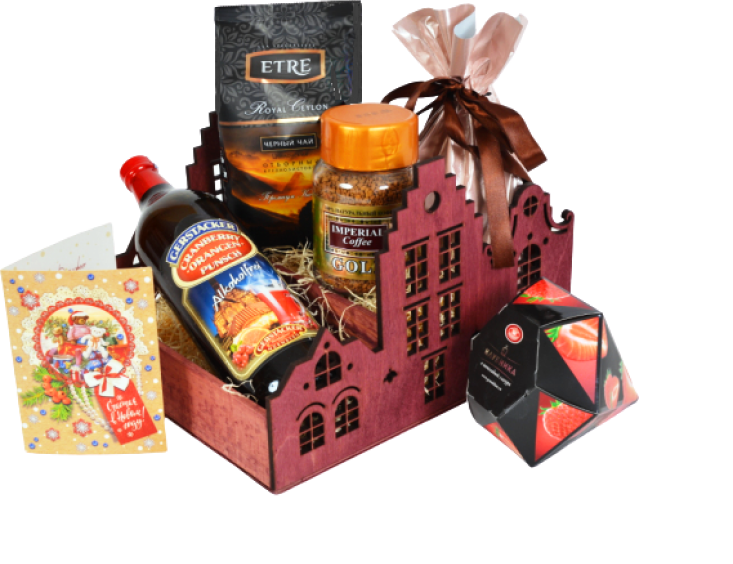
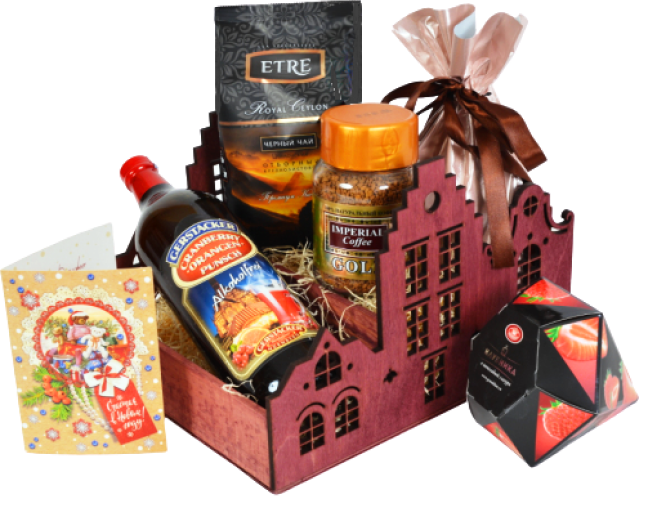
Первый экран: стилизация

diff --git a/src/scss/sections/_first-screen.scss b/src/scss/sections/_first-screen.scss
@@ -1,12 +1,18 @@
 .first-screen {
-  margin-top: -50px;
+  margin-top: -120px;
   position: relative;
+  padding: 70px 0 105px;
 }
 
 .first-screen__top {
+  display: flex;
+  justify-content: space-between;
+  flex-wrap: wrap;
+  margin-bottom: 30px;
 }
 .first-screen__details {
   max-width: 515px;
+  position: relative;
 }
 .first-screen__title {
   font-size: 70px;
@@ -14,7 +20,7 @@
   text-transform: uppercase;
   color: #000000;
   margin: 0;
-  margin-bottom: 20px;
+  margin-bottom: 35px;
   font-weight: 400;
   span {
     color: #0c96fc;
@@ -26,13 +32,20 @@
   line-height: 140%;
   color: #000000;
   margin: 0;
-  margin-bottom: 40px;
 }
 .first-screen__label {
+  position: absolute;
+  top: -20px;
+  right: -240px;
+  max-width: 190px;
+  display: block;
 }
 .first-screen__image {
+  max-width: 655px;
+  margin-top: -35px;
 }
 .first-screen__photo {
+  display: block;
 }
 .first-screen__bottom {
   max-width: 1270px;
@@ -44,7 +57,6 @@
   display: flex;
   justify-content: space-between;
   align-items: center;
-
 }
 .benefits-list__item {
   max-width: 355px;

diff --git a/src/html/section/first-screen.html b/src/html/section/first-screen.html
@@ -13,8 +13,8 @@
       </div>
       <!-- блок с фотографией в первом экране  -->
       <div class="first-screen__image">
-        <img class="first-screen__photo" src="./img/catalog/promo.png" alt="Фотография подарков" width="733"
-          height="564">
+        <img class="first-screen__photo" src="./img/catalog/promo.png" alt="Фотография подарков" width="653"
+          height="507">
       </div>
     </div>
     <!-- нижняя часть первого экрана  -->
